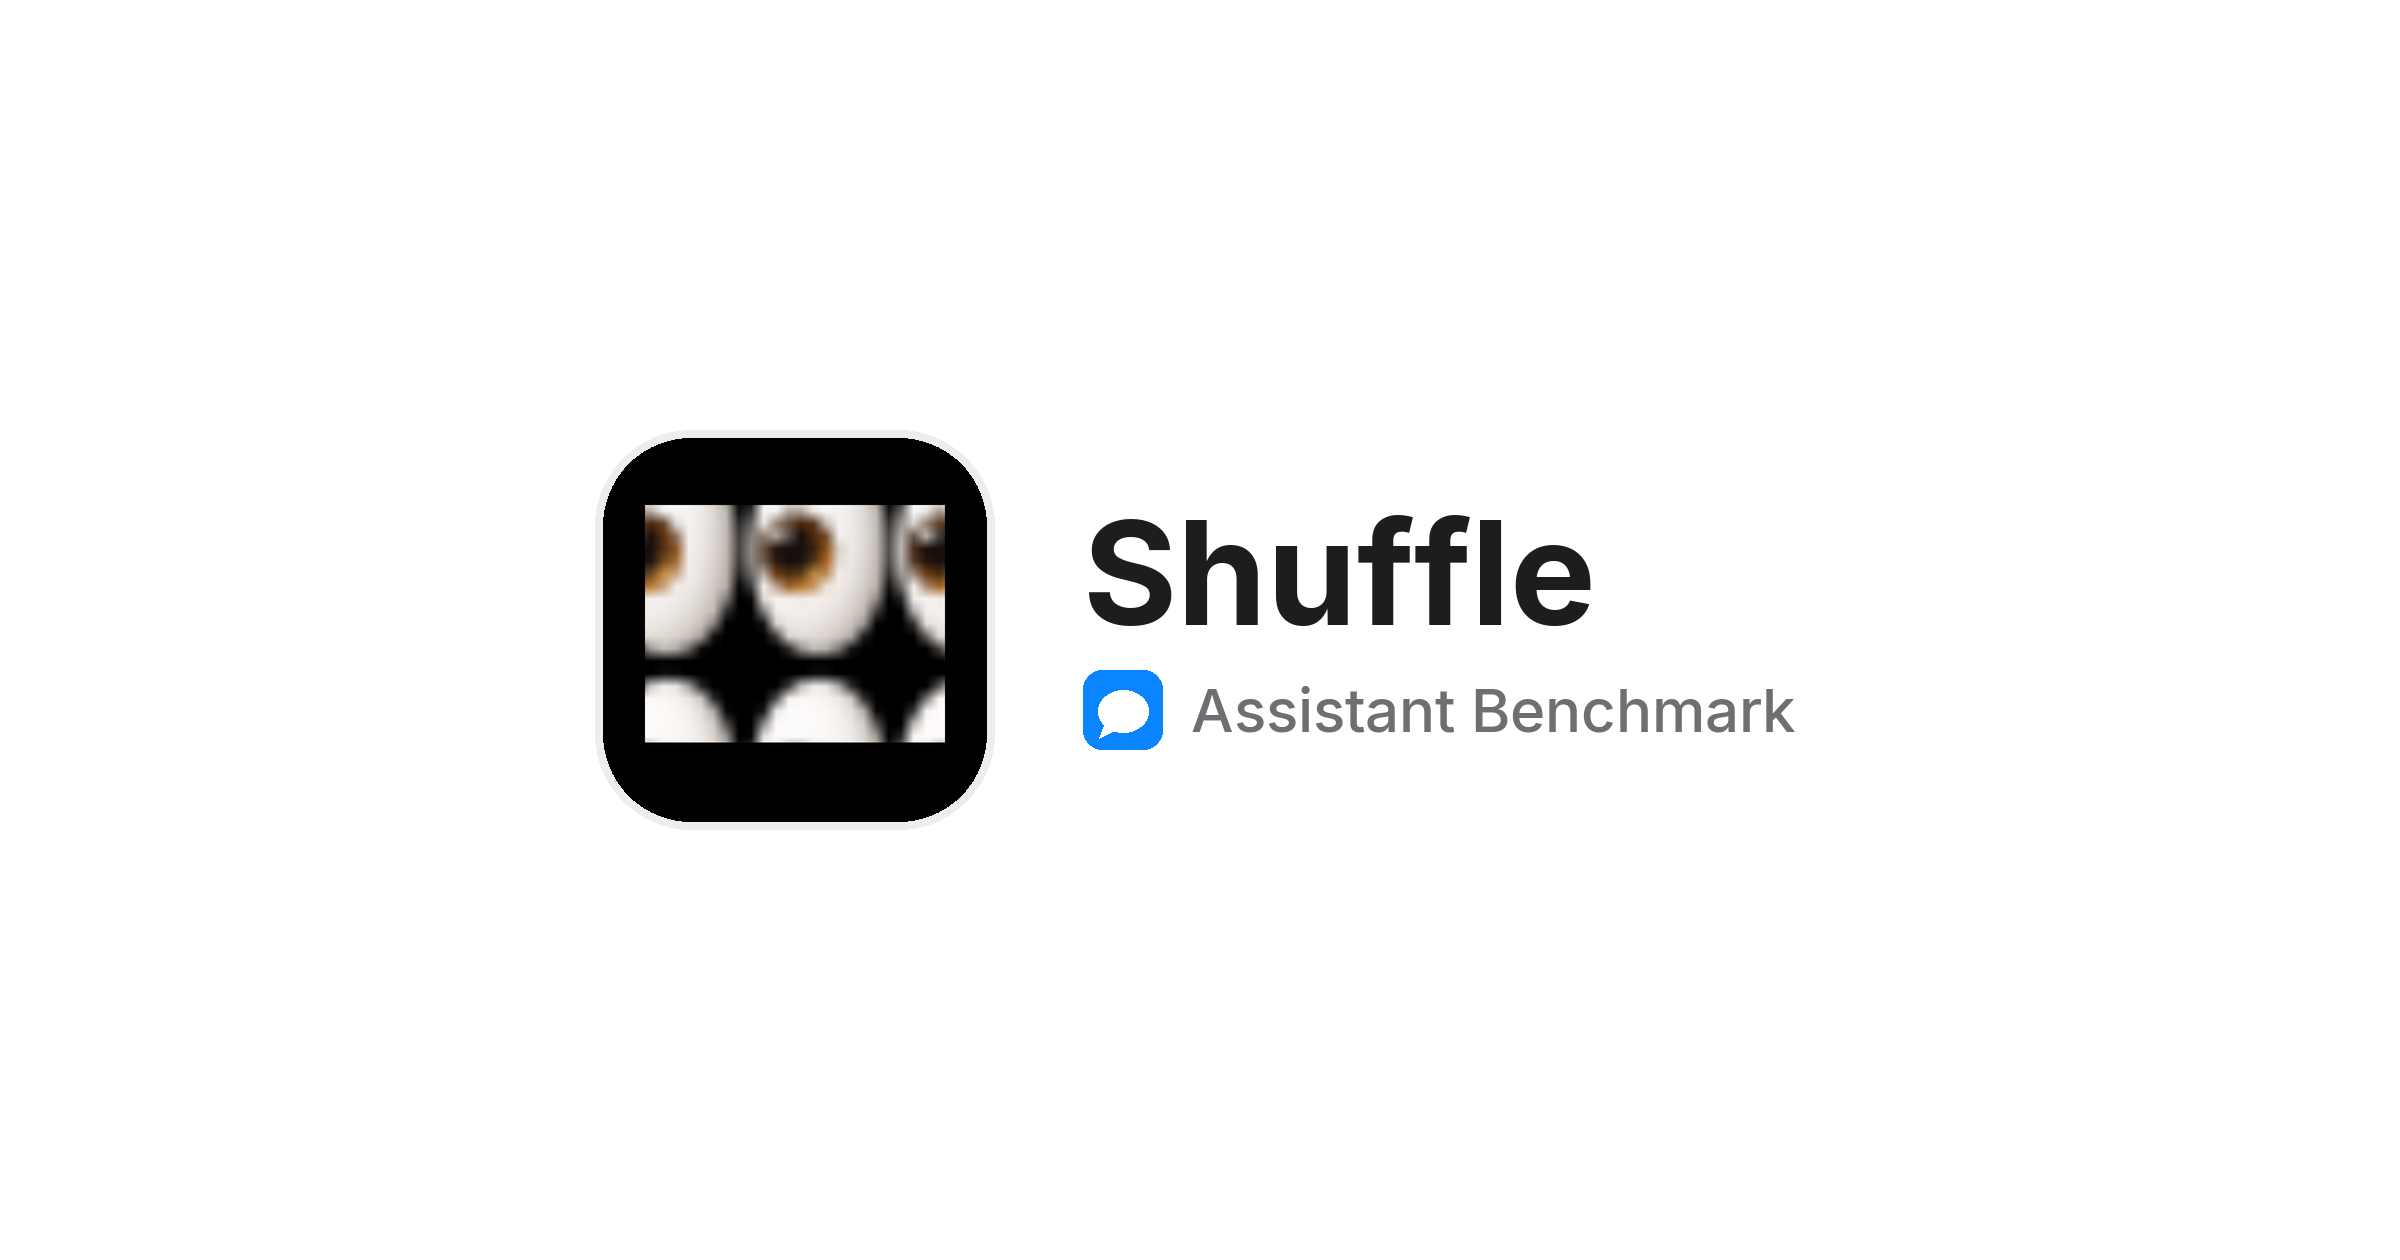
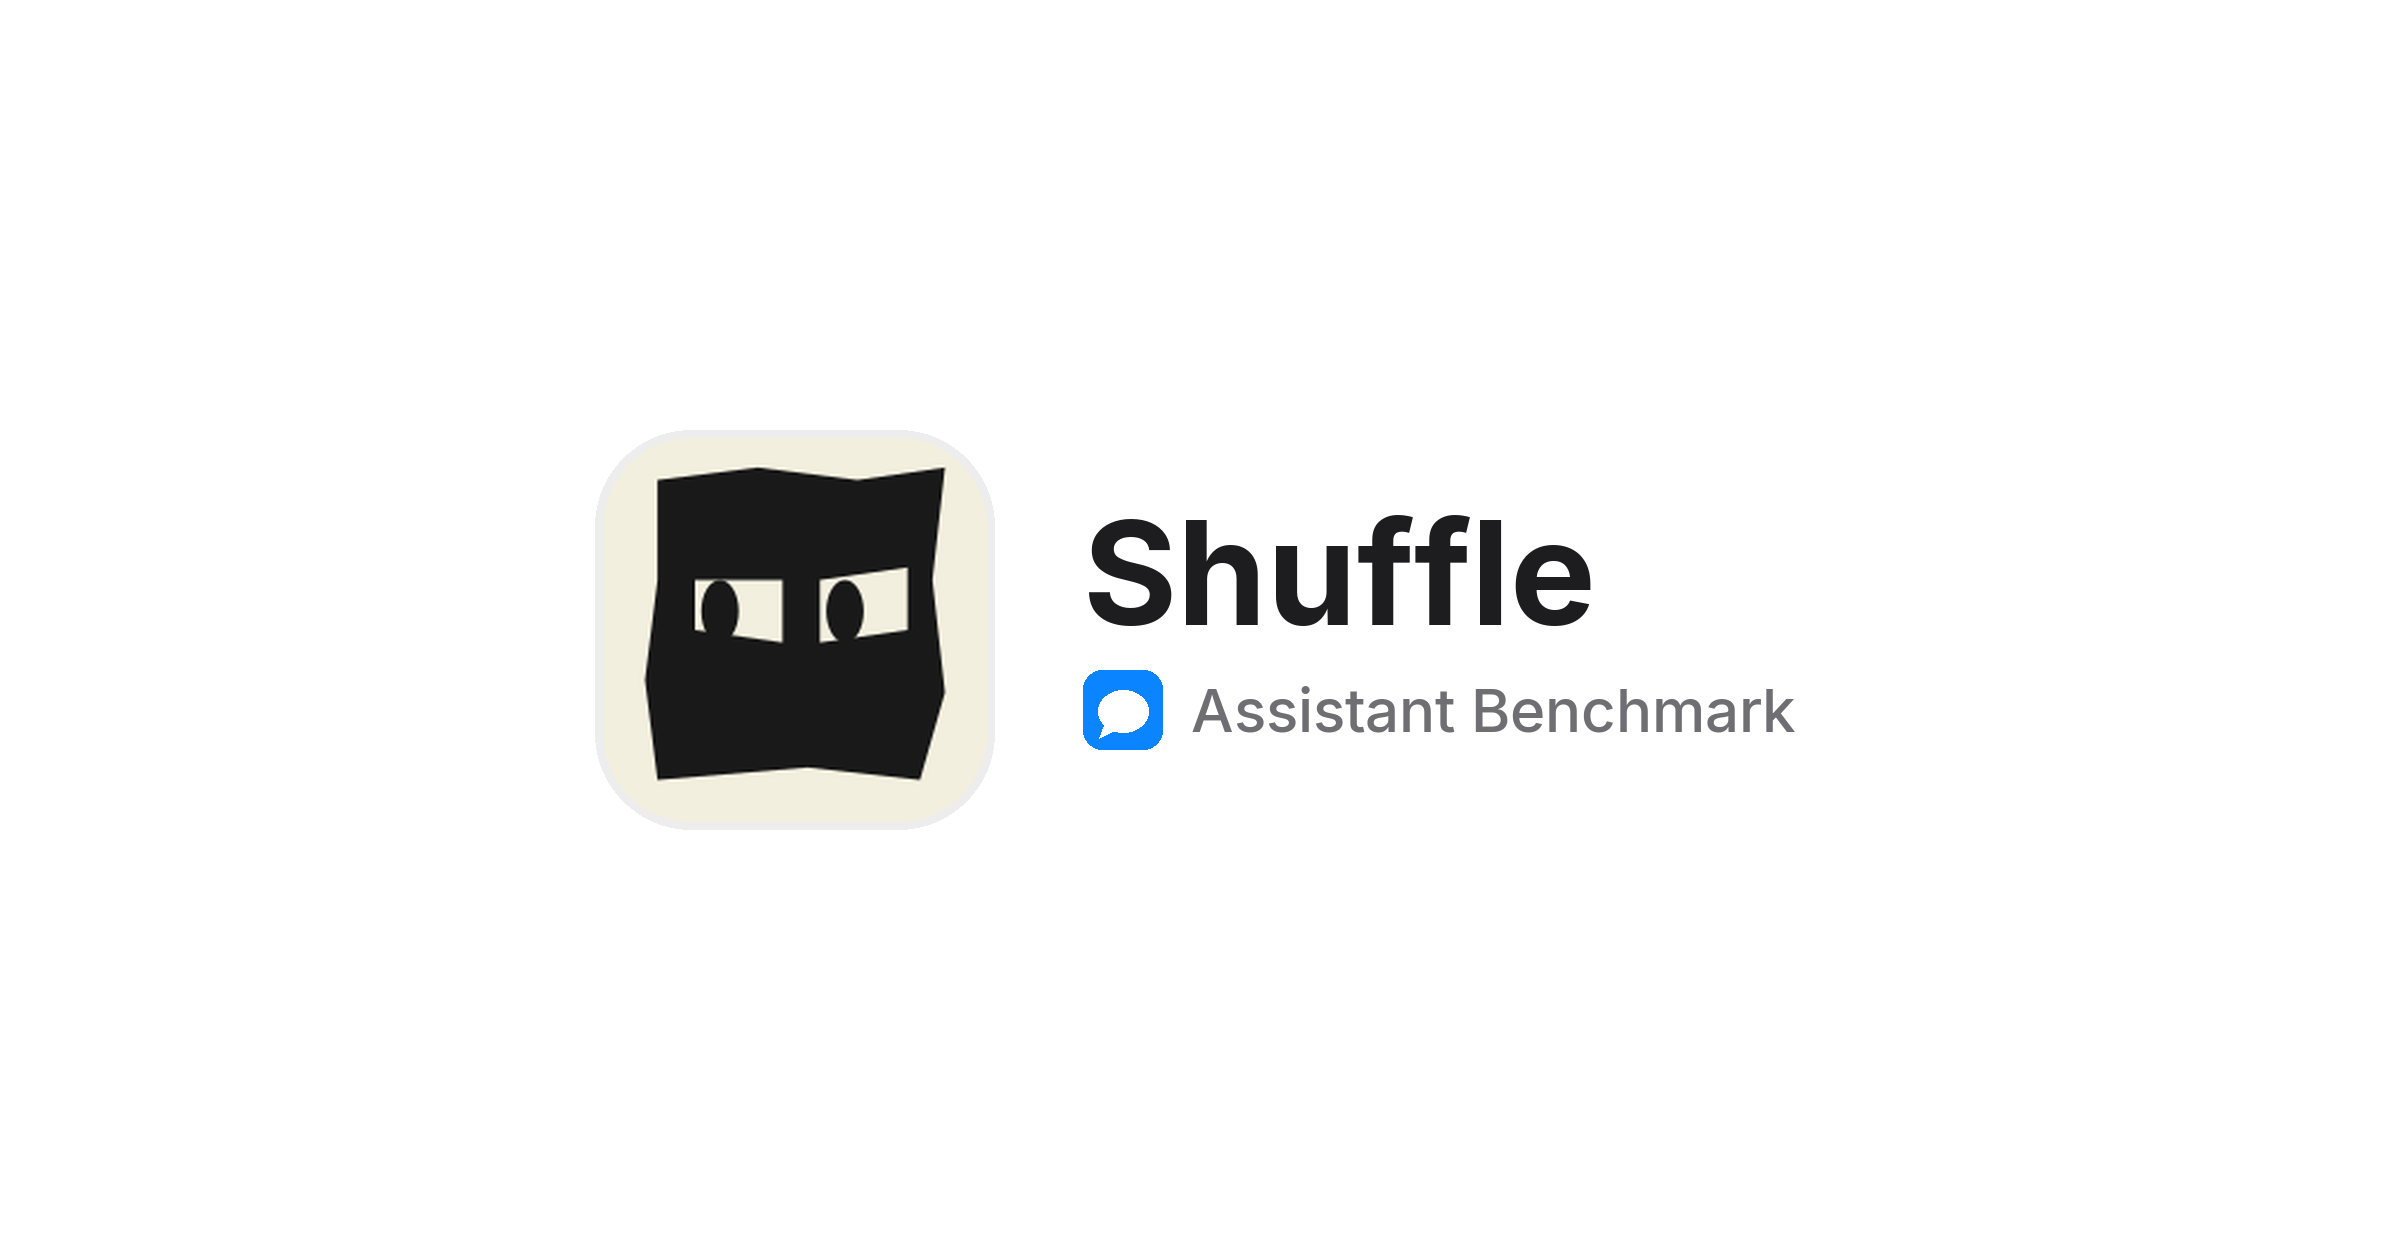
Shuffle: site is textshuffle.com, refresh tagline, pricing and mark
Tagline and channels from the site's own metadata; Pro $8/mo with 880
monthly credits, day pass $1, week pass $4.99. Sources now match
textshuffle.com and addshuffle.com alongside the old shuffle.cool.
Logo swapped to the 2026 brand icon.

Changed region(s): [[0.25, 0.3405, 0.4375, 0.65]]

diff --git a/data/agents/shuffle/summary.md b/data/agents/shuffle/summary.md
@@ -1,6 +1,6 @@
 # Shuffle
 
-Site: https://shuffle.cool/
+Site: https://textshuffle.com/
 
 **Patterns (public X):**
 - **shuffle.cool / @addshuffle still silent** (batch6 search + empty profile). Broad “shuffle.cool OR @addshuffle” hits are UI-kit / theme noise — **not ingested**.
